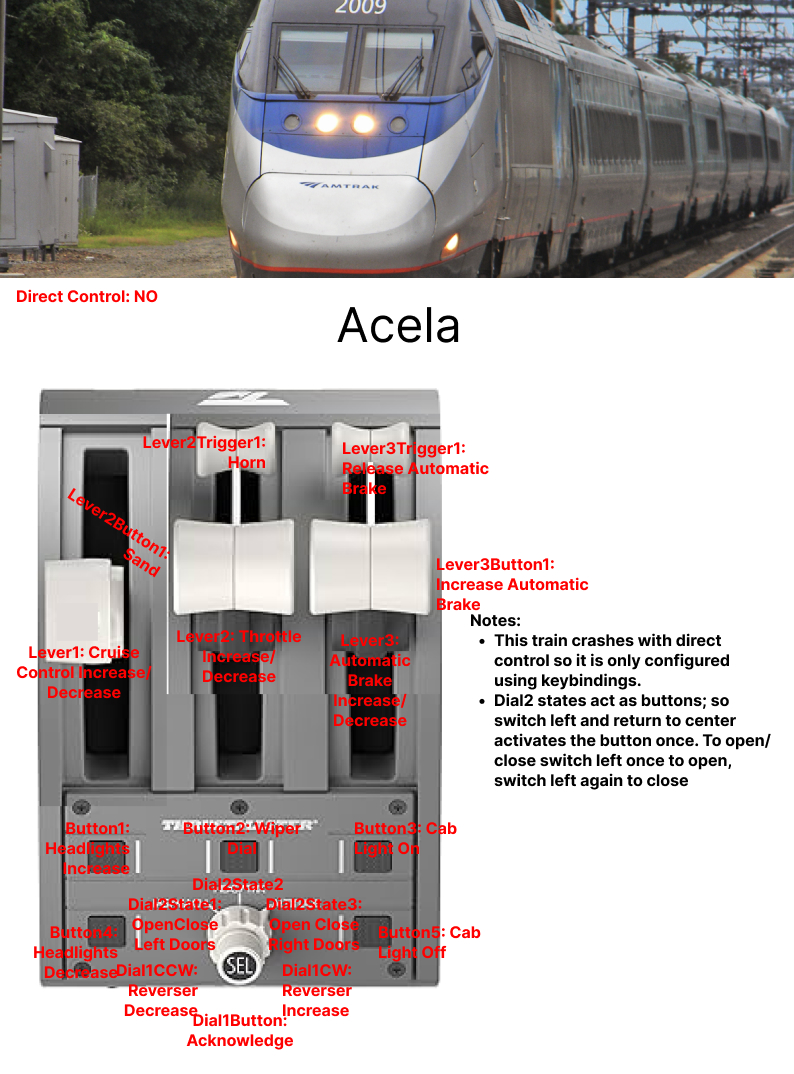
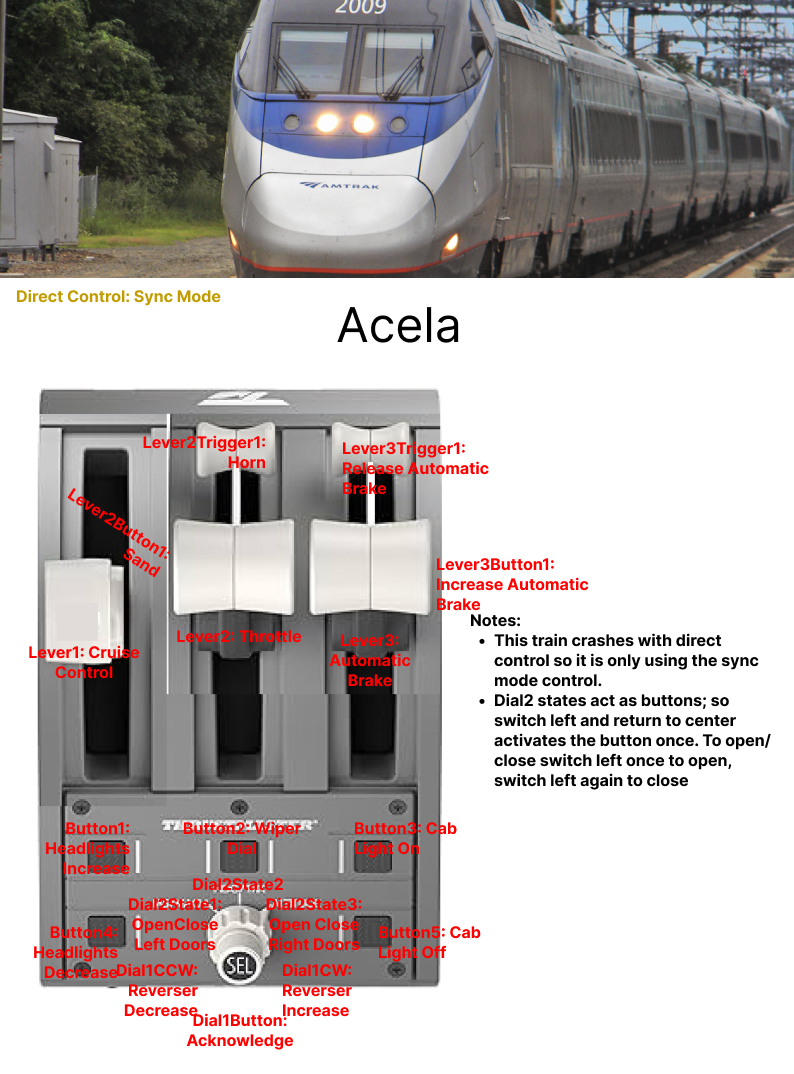
chore: Update readme

diff --git a/beta.package/README.md b/beta.package/README.md
@@ -2,6 +2,12 @@
 
 There are 2 parts to this software; the actual software that listens to your controller and the UE4SS mod that receives the commands and sends them to the game. This guide will help you set everything up to work with your controller and locos.
 
+## Summary: Different control types
+There are 3 base ways of controlling the trains in game.
+1. **Normal keybinds**; these are just key actions that are triggered by certain controller actions. Eg, when a lever exceeds a threshold or a button is pushed. This is useful for normal component interactions such as headlights, doors, ...
+2. **Direct Control**; this is a way of directly controlling the components in the game by sending the lever values to the game itself. This is the most accurate control but is not supported in all trains. Some trains, especially older ones, become unstable when trying to interact with it using this method.
+3. **Sync Control**; this is a middle ground between normal keybinds and direct control. All the train interaction is done using keybindings (such as `a` and `d` for increasing and decreasing the power handle), but the game will send the current value back to the program. This means the program can activate and release the keys depending on the target value which is still more accurate then setting up manual keybindings to be triggered at regular intervals, but less accurate than the direct control method. However this control method is more stable and thus works with all trains.
+
 ## Calibrating/configuring a new controller
 
 To start you will need to configure and calibrate your controller. The configuration is used to map each button and lever to a common name which will be used in the train profiles. The calibration is used to determine the min and max values of your levers/axes. By default you will find a configuration for the TCA Quadrant Boeing edition since that's the controller I have. If you are using the same controller you can use that SDL mapping and just keep the calibration file. If you have a different controller you will need to keep both generated files after running the calibration.
@@ -43,14 +49,20 @@ Now you are ready to go so you can fire up the game and run the `tsw5-gamepad` p
 
 It is possible to customize or set-up your own train profiles. To start you can copy an existing profile and rename it. Have a look at the existing profiles to determine how to configure your own settings like keypresses, holds etc... The configuration is very versatile.
 
-The most advanced configuration is the `direct_control` assignment option. This is the option that allows you to send controller inputs directly to the game. In order to configure these you will need to know the internal names of the train components and their min,max values to set it up as desired. You can follow the rough steps below to do so:
+The most advanced configurations are the `direct_control` and `sync_control` assignment options. These are the options that allow you to have more direct control over the inputs the game. In order to configure these you will need to know the internal names of the train components and their min,max values to set it up as desired. You can follow the rough steps below to do so:
 
 1. Enable the UE4SS debugging consoles by setting the `ConsoleEnabled`, `GuiConsoleEnabled`, `GuiConsoleVisible` to 1 in the `UE4SS-settings.ini` file.
 2. In the `TSWControllerMod` add the following lines to `main.lua`
 
 ```
 RegisterHook("/Script/TS2Prototype.VirtualHIDComponent:InputValueChanged", function(self, oldValue, newValue)
-  print("InputValueChanged", newValue.ToFloat)
+  local vhid_component = self:get()
+  local changing_controller = vhid_component:GetCurrentlyChangingController()
+  local vhid_component_identifier = vhid_component.InputIdentifier.Identifier:ToString()
+  -- ignore any None components or controls that aren't being controlled by the current player
+  if vhid_component_identifier ~= "None" and changing_controller:GetAddress() == UEHelpers.GetPlayerController():GetAddress() then
+    print("InputValueChanged:" .. vhid_component_identifier .. ":" .. newValue.ToFloat .. "\n")
+  end
 end)
 ```
 
@@ -66,3 +78,6 @@ end)
 7. Lastly, you can play around with the lever in game using your normal controls and monitor the output in the `UE4SS` console window. This will help you figure out the min/max values of the control. They are normally always 0-1, however I like to set-up my brake levers to only go from 0-max brake instead of handle off or emergency and add additional controls to reach emergency manually. This makes driving the train easier imo. (eg: On the BR423/425 the default profile is set up to go from 100% power to Max Brake and the trigger and button on the lever are used to manually reach emergency braking when required)
 
 That should be all; you can just close and re-open the program (you don't need to restart the game) to load the new profile and you can test out whether it works as expected. Rinse and repeat until you have everything configured correctly.
+
+### In case direct control doesn't work
+Some trains are not stable when using direct control. The Amtrak Acela is one of those. For this reason it can only be set-up using `sync_control` (or normal keybinds). The sync control set-up is largely the identical but the identifier you use is not the `@field [NAME]` but rather the VHID component idetifier as we previously logged.
